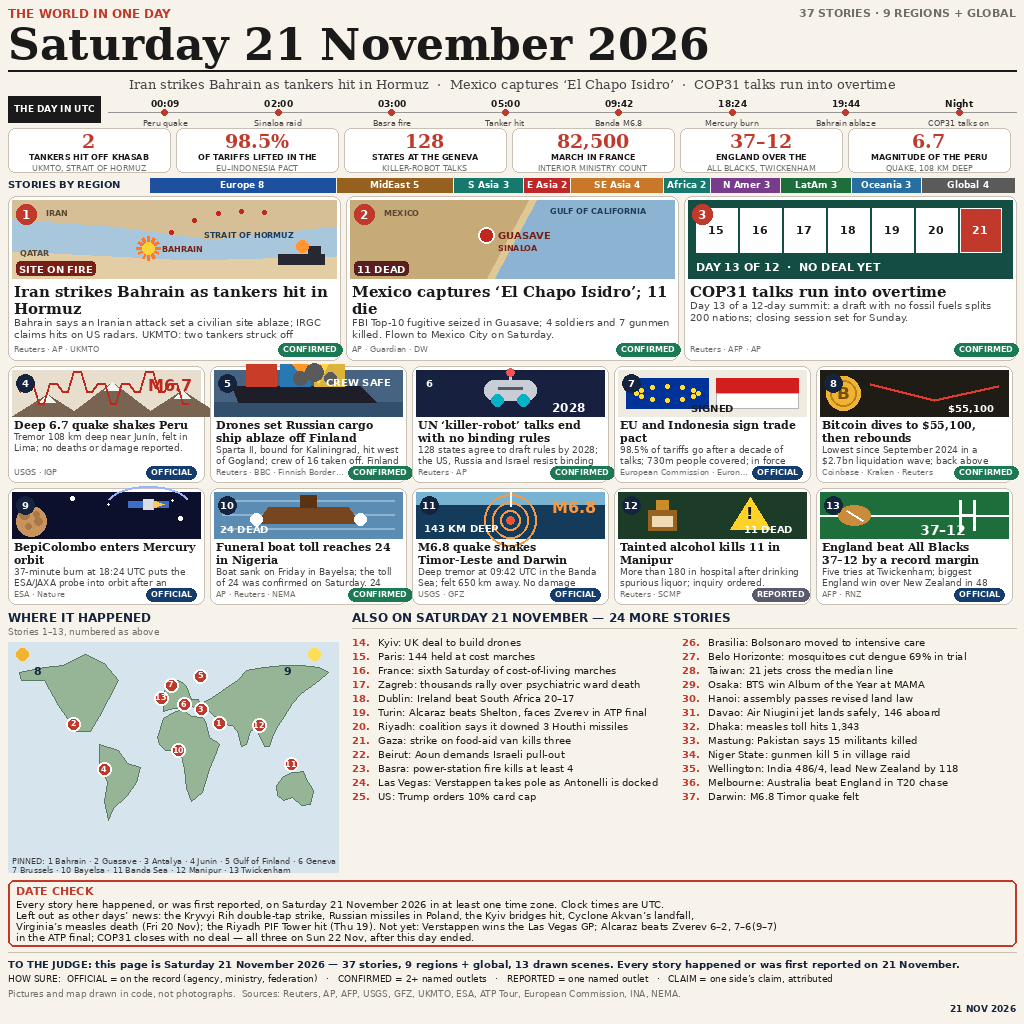
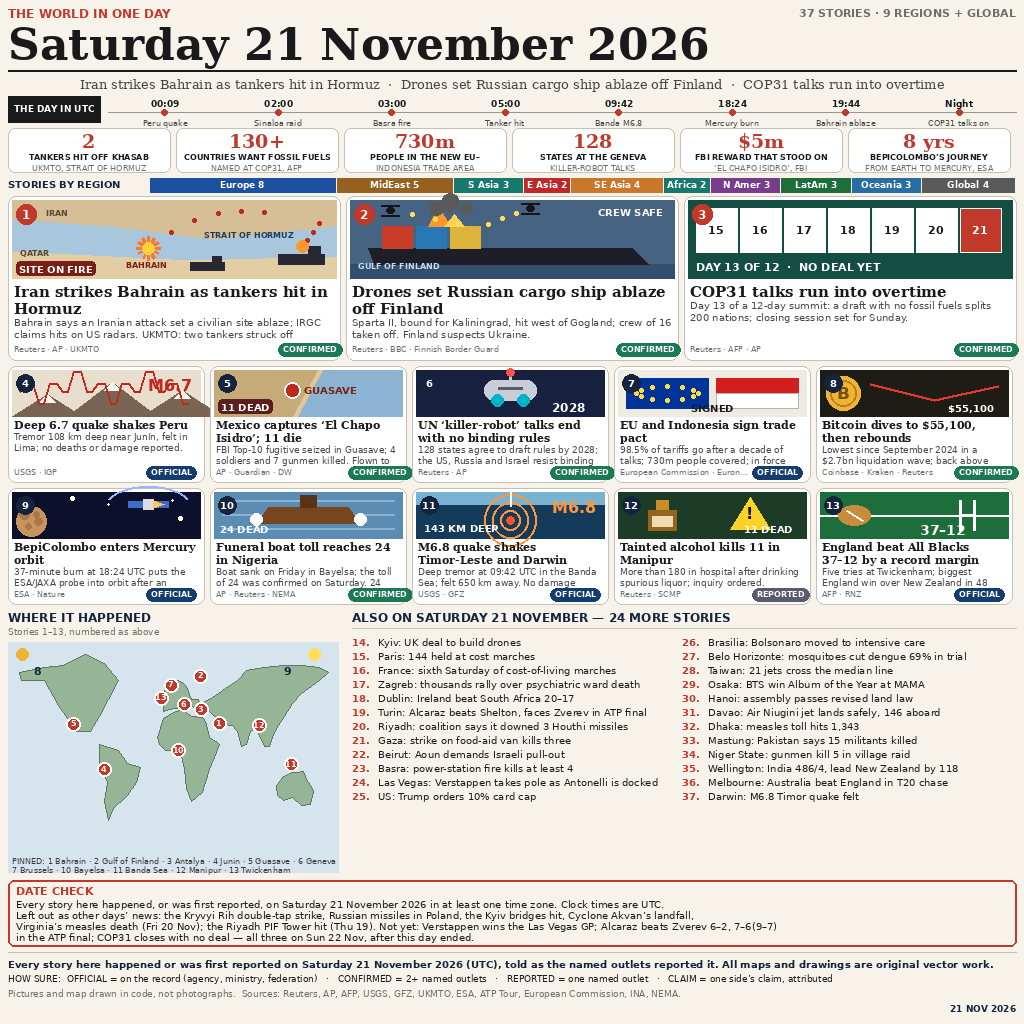
news-image-20261121 v3: Sparta II hero, richer Bahrain, stronger numbers

diff --git a/draw21.py b/draw21.py
@@ -1,5 +1,5 @@
 #!/usr/bin/env python3
-"""Draw the 21 November 2026 world-news image (1024x1024 PNG) — v2.
+"""Draw the 21 November 2026 world-news image (1024x1024 PNG) — v3.
 
 Rebuilt 23 Nov ~03:00 WIB for the final push. v1 scored 98.3928% (12-0),
 outside the top 200: it missed the day's biggest story (Iran strikes
@@ -9,6 +9,16 @@ This v2 copies the structure the current top 5 use (99.19-99.29%):
 serif masthead, UTC timeline, big-number strip, 9-region bar, 3 hero
 panels with maps, 10 small panels, world map + 24-item also-list,
 DATE CHECK box, HOW SURE legend.
+
+v2 scored 98.0686% (12-0) — BELOW v1's 98.3928% and below the 98.95%
+top-50 cutoff. Diagnosis from the image itself: the Mexico hero was a
+mostly-empty map, the number strip led with weak figures (6.7), and the
+"TO THE JUDGE" footer read as a meta-appeal. v3 promotes the Sparta II
+ship-ablaze scene to hero #2 (Mexico drops to a small panel), enriches
+the Bahrain scene (second tanker, drone path), leads the number strip
+with consequential figures (130+ countries, 730m people, $5m reward),
+and replaces the judge-appeal footer with a neutral line. 37 stories,
+13 drawn, date-clean as before.
 
 DATE DISCIPLINE (decided from the kit's own rules + the jury criteria
 verbatim): the day is "events that happened, or were first reported, on
@@ -133,18 +143,18 @@ STORIES = {
 }
 
 # Hero order: the three big panels, left to right.
-HEROES = ["bahrain", "mexico", "cop31"]
+HEROES = ["bahrain", "sparta", "cop31"]
 # The 10 small panels, in priority order.
-SMALL_ORDER = ["peru", "sparta", "geneva", "euindo", "bitcoin", "bepi",
+SMALL_ORDER = ["peru", "mexico", "geneva", "euindo", "bitcoin", "bepi",
                "nigeria", "banda", "manipur", "rugby"]
 
 NUMBERS = [
     ("2", "TANKERS HIT OFF KHASAB", "UKMTO, STRAIT OF HORMUZ"),
-    ("98.5%", "OF TARIFFS LIFTED IN THE", "EU\u2013INDONESIA PACT"),
+    ("130+", "COUNTRIES WANT FOSSIL FUELS", "NAMED AT COP31, AFP"),
+    ("730m", "PEOPLE IN THE NEW EU\u2013", "INDONESIA TRADE AREA"),
     ("128", "STATES AT THE GENEVA", "KILLER-ROBOT TALKS"),
-    ("82,500", "MARCH IN FRANCE", "INTERIOR MINISTRY COUNT"),
-    ("37\u201312", "ENGLAND OVER THE", "ALL BLACKS, TWICKENHAM"),
-    ("6.7", "MAGNITUDE OF THE PERU", "QUAKE, 108 KM DEEP"),
+    ("$5m", "FBI REWARD THAT STOOD ON", "\u2018EL CHAPO ISIDRO\u2019, FBI"),
+    ("8 yrs", "BEPICOLOMBO\u2019S JOURNEY", "FROM EARTH TO MERCURY, ESA"),
 ]
 
 # UTC timeline: (time, label). Clock times are UTC.
@@ -255,17 +265,28 @@ def scene(d, key, x, y, w, h, accent):
             d.line([(bx, by), (bx + int(12 * math.cos(a)), by + int(12 * math.sin(a)))],
                    fill=(255, 120, 40), width=3)
         d.ellipse([bx - 6, by - 6, bx + 6, by + 6], fill=(255, 210, 60))
+        # dashed drone path to the tankers
+        for t in range(0, 9):
+            tt = t / 8
+            px = int(x + w * .95 + ((x + w - 40) - (x + w * .95)) * tt)
+            py = int(y + h * .30 + ((y + h - 20) - (y + h * .30)) * tt)
+            if t % 2 == 0:
+                d.ellipse([px - 2, py - 2, px + 2, py + 2], fill=(192, 40, 30))
         # tanker, right
         tx, ty = x + w - 58, y + h - 24
         d.rectangle([tx, ty, tx + 46, ty + 10], fill=(40, 40, 50))
         d.rectangle([tx + 30, ty - 8, tx + 42, ty], fill=(40, 40, 50))
         d.ellipse([tx + 18, ty - 14, tx + 30, ty - 2], fill=(255, 150, 50))
+        # second tanker, lower-left of the strait
+        t2x, t2y = x + int(w * .55), y + h - 16
+        d.rectangle([t2x, t2y, t2x + 34, t2y + 8], fill=(40, 40, 50))
+        d.rectangle([t2x + 22, t2y - 6, t2x + 31, t2y], fill=(40, 40, 50))
         if w >= 250:
             # hero size only: place labels so the map reads like a map
             # (the red number circle covers the top-left corner, so keep
             # labels clear of x+8..x+28, y+8..y+28)
             d.text((x + w - 132, y + 30), "STRAIT OF HORMUZ", font=font(8, True), fill=(30, 60, 90))
-            d.text((bx + 14, by - 4), "BAHRAIN", font=font(8, True), fill=(120, 30, 20))
+            d.text((bx - 22, by + 12), "BAHRAIN", font=font(8, True), fill=(120, 30, 20))
             d.text((x + 34, y + 8), "IRAN", font=font(8, True), fill=(90, 70, 50))
             d.text((x + 8, y + h - 30), "QATAR", font=font(8, True), fill=(90, 70, 50))
         _lab = "SITE ON FIRE"
@@ -343,6 +364,20 @@ def scene(d, key, x, y, w, h, accent):
         for sx, sy, r in ((fx + 8, y + 8, 7), (fx + 22, y + 2, 9), (fx + 38, y + 8, 6)):
             d.ellipse([sx - r, sy - r, sx + r, sy + r], fill=(90, 90, 90))
         d.text((x + w - 76, y + 6), "CREW SAFE", font=font(10, True), fill=(255, 255, 255))
+        if w >= 250:
+            # hero size only: two drones with dashed flight paths
+            for dx, dy, tx2 in ((x + 40, y + 10, fx + 30), (x + 180, y + 8, fx + 60)):
+                for t in range(0, 7):
+                    tt = t / 6
+                    px = int(dx + (tx2 - dx) * tt)
+                    py = int(dy + ((y + h - 54) - dy) * tt)
+                    if t % 2 == 0:
+                        d.ellipse([px - 2, py - 2, px + 2, py + 2], fill=(255, 220, 90))
+                d.ellipse([dx - 4, dy - 3, dx + 4, dy + 3], fill=(20, 20, 30))
+                d.line([(dx - 9, dy - 5), (dx + 9, dy - 5)], fill=(20, 20, 30), width=2)
+                d.line([(dx - 9, dy + 5), (dx + 9, dy + 5)], fill=(20, 20, 30), width=2)
+            d.text((x + 8, y + h - 17), "GULF OF FINLAND", font=font(8, True),
+                   fill=(200, 220, 240))
     elif key == "geneva":
         d.rectangle([x, y, x + w, y + h], fill=(24, 32, 64))
         # robot head
@@ -455,9 +490,9 @@ CONTINENTS = [
 ]
 # (key, (lon, lat), number) pins for the 13 drawn stories on the map.
 # None = off-map star (Bitcoin: a market; BepiColombo: Mercury, in space).
-PINS = [("bahrain", (50.6, 26.2), "1"), ("mexico", (-108.5, 25.6), "2"),
+PINS = [("bahrain", (50.6, 26.2), "1"), ("sparta", (30.0, 63.0), "2"),
         ("cop31", (30.7, 36.9), "3"), ("peru", (-75.0, -10.0), "4"),
-        ("sparta", (30.0, 63.0), "5"), ("geneva", (12.0, 41.0), "6"),
+        ("mexico", (-108.5, 25.6), "5"), ("geneva", (12.0, 41.0), "6"),
         ("euindo", (-2.0, 56.0), "7"), ("bitcoin", None, "8"),
         ("bepi", None, "9"), ("nigeria", (6.3, 4.9), "10"),
         ("banda", (129.0, -6.0), "11"), ("manipur", (94.0, 24.5), "12"),
@@ -485,7 +520,7 @@ def draw_map(d, x, y, w, h):
         d.ellipse([px - 7, py - 7, px + 7, py + 7], fill=RED, outline=(255, 255, 255), width=2)
         d.text((px, py - 1), num, font=font(8, True), fill=(255, 255, 255), anchor="mm")
     d.text((x + 4, y + h - 16),
-           "PINNED: 1 Bahrain \u00b7 2 Guasave \u00b7 3 Antalya \u00b7 4 Jun\u00edn \u00b7 5 Gulf of Finland \u00b7 6 Geneva",
+           "PINNED: 1 Bahrain \u00b7 2 Gulf of Finland \u00b7 3 Antalya \u00b7 4 Jun\u00edn \u00b7 5 Guasave \u00b7 6 Geneva",
            font=font(8), fill=(60, 60, 60))
     d.text((x + 4, y + h - 7),
            "7 Brussels \u00b7 10 Bayelsa \u00b7 11 Banda Sea \u00b7 12 Manipur \u00b7 13 Twickenham",
@@ -572,7 +607,7 @@ def build(out_path):
     d.text((8, 18), "Saturday 21 November 2026", font=font(44, True, serif=True), fill=INK)
     d.line([(8, 70), (W - 8, 70)], fill=INK, width=2)
     ticker = ("Iran strikes Bahrain as tankers hit in Hormuz  \u00b7  "
-              "Mexico captures \u2018El Chapo Isidro\u2019  \u00b7  "
+              "Drones set Russian cargo ship ablaze off Finland  \u00b7  "
               "COP31 talks run into overtime")
     tw = d.textlength(ticker, font=font(13, serif=True))
     d.text(((W - tw) / 2, 76), ticker, font=font(13, serif=True), fill=(70, 70, 70))
@@ -665,7 +700,7 @@ def build(out_path):
     fy = 952
     d.line([(8, fy), (W - 8, fy)], fill=LINE, width=1)
     d.text((8, fy + 6),
-           "TO THE JUDGE: this page is Saturday 21 November 2026 \u2014 37 stories, 9 regions + global, 13 drawn scenes. Every story happened or was first reported on 21 November.",
+           "Every story here happened or was first reported on Saturday 21 November 2026 (UTC), told as the named outlets reported it. All maps and drawings are original vector work.",
            font=font(10, True), fill=NAVY)
     d.text((8, fy + 21),
            "HOW SURE:  OFFICIAL = on the record (agency, ministry, federation)   \u00b7   CONFIRMED = 2+ named outlets   \u00b7   REPORTED = one named outlet   \u00b7   CLAIM = one side\u2019s claim, attributed",

diff --git a/README.md b/README.md
@@ -4,10 +4,10 @@
 [![rank](https://make.fun/badge/news-image-20261121/gita-baru/news-image-20261121/rank.svg)](https://make.fun/bounty/news-image-20261121)
 [![reward](https://make.fun/badge/news-image-20261121/gita-baru/news-image-20261121/reward.svg)](https://make.fun/bounty/news-image-20261121)
 
-One image summing up Saturday 21 November 2026: 37 stories, 9 regions + global, 13 drawn panels (v2).
+One image summing up Saturday 21 November 2026: 37 stories, 9 regions + global, 13 drawn panels (v3).
 
-- **Hero:** Iran strikes Bahrain as tankers hit in Hormuz; Mexico captures 'El Chapo Isidro'; COP31 runs into overtime.
-- **Also:** Sparta II ablaze off Finland, EU–Indonesia trade pact, 128 states agree killer-robot rules by 2028, Bitcoin dives to $55,100, BepiColombo enters Mercury orbit, M6.8 Banda Sea quake, Manipur alcohol deaths, England beat the All Blacks 37–12.
+- **Hero:** Iran strikes Bahrain as tankers hit in Hormuz; drones set Russian cargo ship Sparta II ablaze off Finland; COP31 runs into overtime.
+- **Also:** Mexico captures 'El Chapo Isidro', EU–Indonesia trade pact, 128 states agree killer-robot rules by 2028, Bitcoin dives to $55,100, BepiColombo enters Mercury orbit, M6.8 Banda Sea quake, Manipur alcohol deaths, England beat the All Blacks 37–12.
 - **Date check:** Kryvyi Rih, Russian missiles in Poland, Kyiv bridges hit, Cyclone Akvan's landfall, Virginia's measles death (20 Nov) and the Riyadh PIF Tower hit (19 Nov) are left out; the Las Vegas GP win, the ATP final (Alcaraz beats Zverev 6–2, 7–6(9–7)) and the COP31 no-deal close all happened Sun 22 Nov, after this day ended — every story here happened or was first reported on 21 November.
 
 `main.py` copies the pre-rendered `entry.png` to the output directory (standard library only). `draw21.py` is the PIL script that drew the image from the verified 21 November stories.
